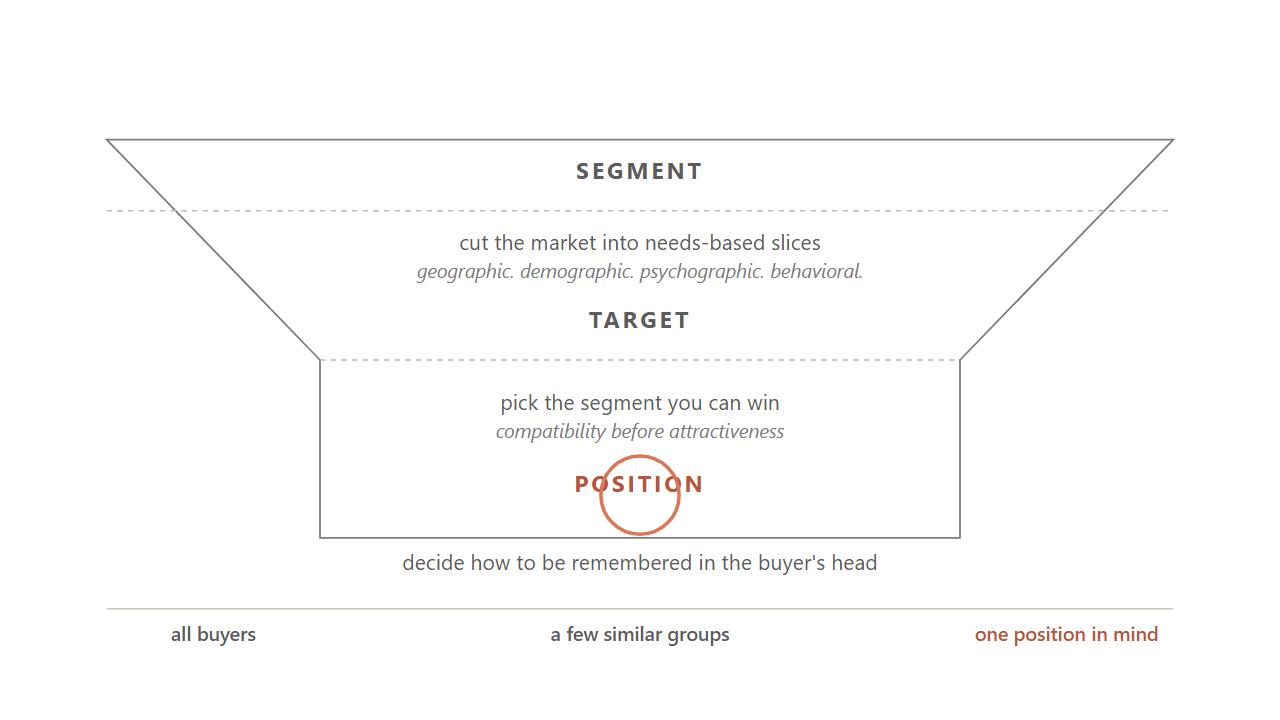
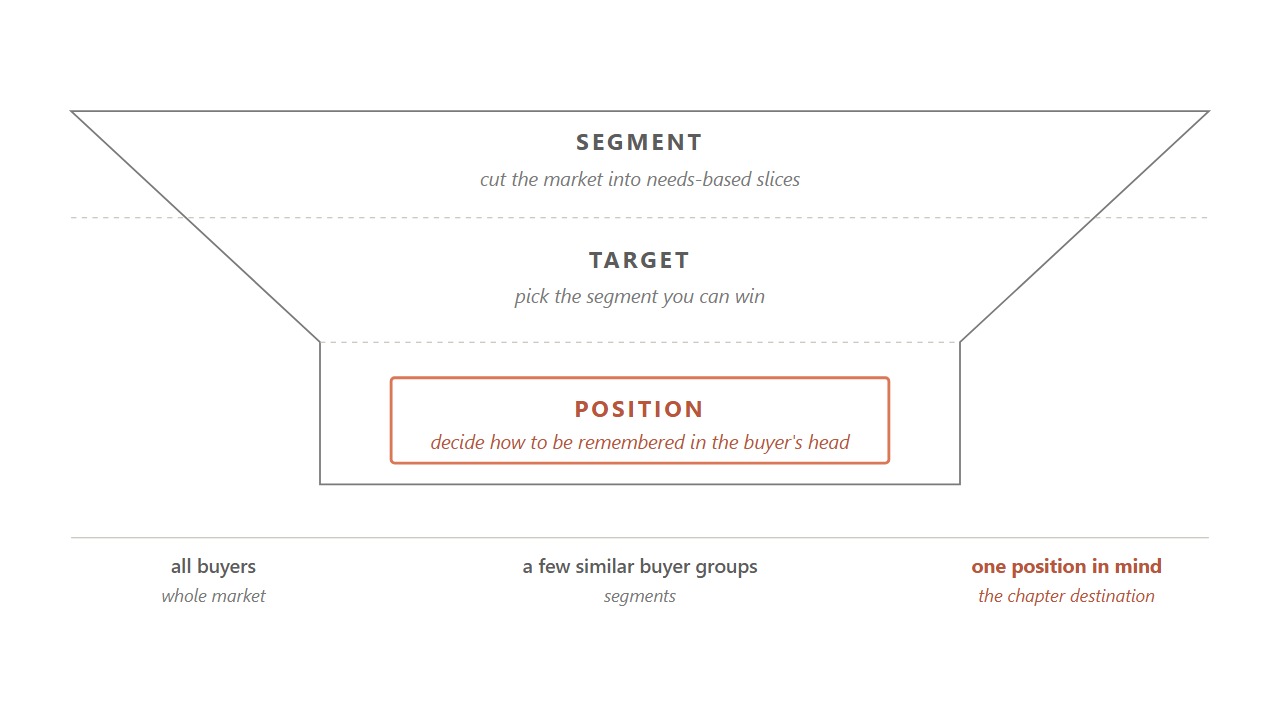
Trailers shipped: Ch10 + Ch6 type-minimal trailers (3-min hooks)
NEW visual world — type-minimal: Vox-cousin claim cards, type-on / stamp-on /
count-up / coral-underline / Fraunces 900 italic close-card. Built alongside
the Ch10 lecture editorial + RSA scenes; shares the same engine + audio
pipeline. Renders for BOTH chapters' trailers off one new typeMinimalKit.

Videos page now structured per chapter:
- Ch10: RSA lecture (67 MB) + Editorial lecture (43 MB) + 3-min trailer (12 MB)
- Ch6:  3-min trailer (13 MB) + "lecture rendering" placeholder
- Voice Variants section unchanged (9 narration samples).

Ch6 lecture renders (RSA + editorial cuts) are still in the BIBLE
render-still → LOOK → fix loop; mp4 follow-up commit when they land.

diff --git a/slides/ch06/v2/ch6-75min-lecture-handout.html b/slides/ch06/v2/ch6-75min-lecture-handout.html
@@ -123,30 +123,30 @@ h1 { font-size: 18pt; font-weight: 700; margin-bottom: 4pt; }
   <div class="thumb">
     <div class="thumb-card">
       <div class="thumb-num">04 / 51</div>
-      <div class="thumb-svg"><svg xmlns="http://www.w3.org/2000/svg" viewBox="0 0 720 340" preserveAspectRatio="xMidYMid meet" font-family="'Segoe UI', sans-serif" role="img" aria-label="The STP funnel. Segmentation cuts the whole market into similar buyer groups, targeting picks the group the firm will serve, and positioning decides how the brand wants to be remembered in that group's head. The chosen target group is drawn in coral.">
+      <div class="thumb-svg"><svg xmlns="http://www.w3.org/2000/svg" viewBox="0 0 720 360" preserveAspectRatio="xMidYMid meet" font-family="'Segoe UI', sans-serif" role="img" aria-label="The STP funnel. Segmentation cuts the whole market into similar buyer groups. Targeting picks the group the firm will serve. Positioning decides how the brand wants to be remembered in that group's head. The chosen position is drawn in coral.">
   <g font-size="12" fill="#1a1a1a">
-    <polygon points="60,46 660,46 540,170 540,270 180,270 180,170" fill="none" stroke="#7A7A7A" stroke-width="1"/>
+    <polygon points="40,40 680,40 540,170 540,250 180,250 180,170" fill="none" stroke="#7A7A7A" stroke-width="1"/>
 
-    <line x1="60" y1="86" x2="660" y2="86" stroke="#BDB7AC" stroke-width="0.8" stroke-dasharray="3,3"/>
-    <line x1="180" y1="170" x2="540" y2="170" stroke="#BDB7AC" stroke-width="0.8" stroke-dasharray="3,3"/>
+    <line x1="40"  y1="100" x2="680" y2="100" stroke="#BDB7AC" stroke-width="0.6" stroke-dasharray="3,3"/>
+    <line x1="180" y1="170" x2="540" y2="170" stroke="#BDB7AC" stroke-width="0.6" stroke-dasharray="3,3"/>
 
-    <text x="360" y="68" text-anchor="middle" font-size="13" font-weight="700" fill="#5C5C5C" letter-spacing="1.6">SEGMENT</text>
-    <text x="360" y="108" text-anchor="middle" font-size="12" fill="#5C5C5C">cut the market into needs-based slices</text>
-    <text x="360" y="124" text-anchor="middle" font-size="11" fill="#7A7A7A" font-style="italic">geographic. demographic. psychographic. behavioral.</text>
+    <text x="360" y="62"  text-anchor="middle" font-size="13" font-weight="700" fill="#5C5C5C" letter-spacing="1.6">SEGMENT</text>
+    <text x="360" y="82"  text-anchor="middle" font-size="11" fill="#7A7A7A" font-style="italic">cut the market into needs-based slices</text>
 
-    <text x="360" y="152" text-anchor="middle" font-size="13" font-weight="700" fill="#5C5C5C" letter-spacing="1.6">TARGET</text>
-    <text x="360" y="198" text-anchor="middle" font-size="12" fill="#5C5C5C">pick the segment you can win</text>
-    <text x="360" y="214" text-anchor="middle" font-size="11" fill="#7A7A7A" font-style="italic">compatibility before attractiveness</text>
+    <text x="360" y="128" text-anchor="middle" font-size="13" font-weight="700" fill="#5C5C5C" letter-spacing="1.6">TARGET</text>
+    <text x="360" y="148" text-anchor="middle" font-size="11" fill="#7A7A7A" font-style="italic">pick the segment you can win</text>
 
-    <text x="360" y="244" text-anchor="middle" font-size="13" font-weight="700" fill="#B8553A" letter-spacing="1.6">POSITION</text>
-    <text x="360" y="288" text-anchor="middle" font-size="12" fill="#5C5C5C">decide how to be remembered in the buyer's head</text>
+    <rect x="220" y="190" width="280" height="48" fill="none" stroke="#DA7756" stroke-width="1.6" rx="2"/>
+    <text x="360" y="212" text-anchor="middle" font-size="13" font-weight="700" fill="#B8553A" letter-spacing="1.6">POSITION</text>
+    <text x="360" y="230" text-anchor="middle" font-size="11" fill="#B8553A" font-style="italic">decide how to be remembered in the buyer's head</text>
 
-    <circle cx="360" cy="246" r="22" fill="none" stroke="#DA7756" stroke-width="2"/>
-
-    <line x1="60" y1="310" x2="660" y2="310" stroke="#BDB7AC" stroke-width="0.6"/>
-    <text x="120" y="328" text-anchor="middle" font-size="11" fill="#5C5C5C" font-weight="600">all buyers</text>
-    <text x="360" y="328" text-anchor="middle" font-size="11" fill="#5C5C5C" font-weight="600">a few similar groups</text>
-    <text x="600" y="328" text-anchor="middle" font-size="11" fill="#B8553A" font-weight="600">one position in mind</text>
+    <line x1="40" y1="280" x2="680" y2="280" stroke="#BDB7AC" stroke-width="0.6"/>
+    <text x="120" y="300" text-anchor="middle" font-size="11" fill="#5C5C5C" font-weight="600">all buyers</text>
+    <text x="120" y="316" text-anchor="middle" font-size="10" fill="#7A7A7A" font-style="italic">whole market</text>
+    <text x="360" y="300" text-anchor="middle" font-size="11" fill="#5C5C5C" font-weight="600">a few similar buyer groups</text>
+    <text x="360" y="316" text-anchor="middle" font-size="10" fill="#7A7A7A" font-style="italic">segments</text>
+    <text x="600" y="300" text-anchor="middle" font-size="11" fill="#B8553A" font-weight="700">one position in mind</text>
+    <text x="600" y="316" text-anchor="middle" font-size="10" fill="#B8553A" font-style="italic">the chapter destination</text>
   </g>
 </svg>
 </div>

diff --git a/slides/ch06/v2/ch6-75min-lecture.html b/slides/ch06/v2/ch6-75min-lecture.html
@@ -465,30 +465,30 @@ body {
     <div class="rule"></div>
   </header>
   <div class="body-area">
-    <figure class="exhibit"><svg xmlns="http://www.w3.org/2000/svg" viewBox="0 0 720 340" preserveAspectRatio="xMidYMid meet" font-family="'Segoe UI', sans-serif" role="img" aria-label="The STP funnel. Segmentation cuts the whole market into similar buyer groups, targeting picks the group the firm will serve, and positioning decides how the brand wants to be remembered in that group's head. The chosen target group is drawn in coral.">
+    <figure class="exhibit"><svg xmlns="http://www.w3.org/2000/svg" viewBox="0 0 720 360" preserveAspectRatio="xMidYMid meet" font-family="'Segoe UI', sans-serif" role="img" aria-label="The STP funnel. Segmentation cuts the whole market into similar buyer groups. Targeting picks the group the firm will serve. Positioning decides how the brand wants to be remembered in that group's head. The chosen position is drawn in coral.">
   <g font-size="12" fill="#1a1a1a">
-    <polygon points="60,46 660,46 540,170 540,270 180,270 180,170" fill="none" stroke="#7A7A7A" stroke-width="1"/>
+    <polygon points="40,40 680,40 540,170 540,250 180,250 180,170" fill="none" stroke="#7A7A7A" stroke-width="1"/>
 
-    <line x1="60" y1="86" x2="660" y2="86" stroke="#BDB7AC" stroke-width="0.8" stroke-dasharray="3,3"/>
-    <line x1="180" y1="170" x2="540" y2="170" stroke="#BDB7AC" stroke-width="0.8" stroke-dasharray="3,3"/>
+    <line x1="40"  y1="100" x2="680" y2="100" stroke="#BDB7AC" stroke-width="0.6" stroke-dasharray="3,3"/>
+    <line x1="180" y1="170" x2="540" y2="170" stroke="#BDB7AC" stroke-width="0.6" stroke-dasharray="3,3"/>
 
-    <text x="360" y="68" text-anchor="middle" font-size="13" font-weight="700" fill="#5C5C5C" letter-spacing="1.6">SEGMENT</text>
-    <text x="360" y="108" text-anchor="middle" font-size="12" fill="#5C5C5C">cut the market into needs-based slices</text>
-    <text x="360" y="124" text-anchor="middle" font-size="11" fill="#7A7A7A" font-style="italic">geographic. demographic. psychographic. behavioral.</text>
+    <text x="360" y="62"  text-anchor="middle" font-size="13" font-weight="700" fill="#5C5C5C" letter-spacing="1.6">SEGMENT</text>
+    <text x="360" y="82"  text-anchor="middle" font-size="11" fill="#7A7A7A" font-style="italic">cut the market into needs-based slices</text>
 
-    <text x="360" y="152" text-anchor="middle" font-size="13" font-weight="700" fill="#5C5C5C" letter-spacing="1.6">TARGET</text>
-    <text x="360" y="198" text-anchor="middle" font-size="12" fill="#5C5C5C">pick the segment you can win</text>
-    <text x="360" y="214" text-anchor="middle" font-size="11" fill="#7A7A7A" font-style="italic">compatibility before attractiveness</text>
+    <text x="360" y="128" text-anchor="middle" font-size="13" font-weight="700" fill="#5C5C5C" letter-spacing="1.6">TARGET</text>
+    <text x="360" y="148" text-anchor="middle" font-size="11" fill="#7A7A7A" font-style="italic">pick the segment you can win</text>
 
-    <text x="360" y="244" text-anchor="middle" font-size="13" font-weight="700" fill="#B8553A" letter-spacing="1.6">POSITION</text>
-    <text x="360" y="288" text-anchor="middle" font-size="12" fill="#5C5C5C">decide how to be remembered in the buyer's head</text>
+    <rect x="220" y="190" width="280" height="48" fill="none" stroke="#DA7756" stroke-width="1.6" rx="2"/>
+    <text x="360" y="212" text-anchor="middle" font-size="13" font-weight="700" fill="#B8553A" letter-spacing="1.6">POSITION</text>
+    <text x="360" y="230" text-anchor="middle" font-size="11" fill="#B8553A" font-style="italic">decide how to be remembered in the buyer's head</text>
 
-    <circle cx="360" cy="246" r="22" fill="none" stroke="#DA7756" stroke-width="2"/>
-
-    <line x1="60" y1="310" x2="660" y2="310" stroke="#BDB7AC" stroke-width="0.6"/>
-    <text x="120" y="328" text-anchor="middle" font-size="11" fill="#5C5C5C" font-weight="600">all buyers</text>
-    <text x="360" y="328" text-anchor="middle" font-size="11" fill="#5C5C5C" font-weight="600">a few similar groups</text>
-    <text x="600" y="328" text-anchor="middle" font-size="11" fill="#B8553A" font-weight="600">one position in mind</text>
+    <line x1="40" y1="280" x2="680" y2="280" stroke="#BDB7AC" stroke-width="0.6"/>
+    <text x="120" y="300" text-anchor="middle" font-size="11" fill="#5C5C5C" font-weight="600">all buyers</text>
+    <text x="120" y="316" text-anchor="middle" font-size="10" fill="#7A7A7A" font-style="italic">whole market</text>
+    <text x="360" y="300" text-anchor="middle" font-size="11" fill="#5C5C5C" font-weight="600">a few similar buyer groups</text>
+    <text x="360" y="316" text-anchor="middle" font-size="10" fill="#7A7A7A" font-style="italic">segments</text>
+    <text x="600" y="300" text-anchor="middle" font-size="11" fill="#B8553A" font-weight="700">one position in mind</text>
+    <text x="600" y="316" text-anchor="middle" font-size="10" fill="#B8553A" font-style="italic">the chapter destination</text>
   </g>
 </svg>
 </figure>

diff --git a/videos/index.html b/videos/index.html
@@ -331,7 +331,7 @@ main:has(.docs-layout){max-width:none;padding:0;}
 <main id="main">
 <div class="docs-layout"><aside class="docs-rail" aria-label="Section navigation"><div class="rail-group"><h3>Lecture videos</h3><ul class="rail-list"><li><span class="rail-soon"><span class="rail-num">Ch 01</span><span class="rail-label">AI for Marketers</span></span></li><li><span class="rail-soon"><span class="rail-num">Ch 02</span><span class="rail-label">What Marketing Is</span></span></li><li><span class="rail-soon"><span class="rail-num">Ch 03</span><span class="rail-label">The Marketing Environm…</span></span></li><li><span class="rail-soon"><span class="rail-num">Ch 04</span><span class="rail-label">How Buyers Buy</span></span></li><li><span class="rail-soon"><span class="rail-num">Ch 05</span><span class="rail-label">Marketing Research</span></span></li><li><span class="rail-soon"><span class="rail-num">Ch 06</span><span class="rail-label">Segmentation, Targetin…</span></span></li><li><span class="rail-soon"><span class="rail-num">Ch 07</span><span class="rail-label">Brands &amp; Brand Equity</span></span></li><li><span class="rail-soon"><span class="rail-num">Ch 08</span><span class="rail-label">Product Management</span></span></li><li><span class="rail-soon"><span class="rail-num">Ch 09</span><span class="rail-label">Services Marketing</span></span></li><li><a class="is-active" href="index.html"><span class="rail-num">Ch 10</span><span class="rail-label">Pricing</span></a></li><li><span class="rail-soon"><span class="rail-num">Ch 11</span><span class="rail-label">Distribution Channels</span></span></li><li><span class="rail-soon"><span class="rail-num">Ch 12</span><span class="rail-label">Retail</span></span></li><li><span class="rail-soon"><span class="rail-num">Ch 13</span><span class="rail-label">DTC &amp; E-commerce</span></span></li><li><span class="rail-soon"><span class="rail-num">Ch 14</span><span class="rail-label">Mobile &amp; App Marketing</span></span></li><li><span class="rail-soon"><span class="rail-num">Ch 15</span><span class="rail-label">International Marketing</span></span></li><li><span class="rail-soon"><span class="rail-num">Ch 16</span><span class="rail-label">Promotions</span></span></li><li><span class="rail-soon"><span class="rail-num">Ch 17</span><span class="rail-label">Content Marketing</span></span></li><li><span class="rail-soon"><span class="rail-num">Ch 18</span><span class="rail-label">Digital Marketing</span></span></li><li><span class="rail-soon"><span class="rail-num">Ch 19</span><span class="rail-label">Social Media</span></span></li><li><span class="rail-soon"><span class="rail-num">Ch 20</span><span class="rail-label">Creator Economy</span></span></li><li><span class="rail-soon"><span class="rail-num">Ch 21</span><span class="rail-label">Customer Lifecycle</span></span></li><li><span class="rail-soon"><span class="rail-num">Ch 22</span><span class="rail-label">PR &amp; Crisis</span></span></li><li><span class="rail-soon"><span class="rail-num">Ch 23</span><span class="rail-label">Sales Alignment</span></span></li><li><span class="rail-soon"><span class="rail-num">Ch 24</span><span class="rail-label">Marketing Plan &amp; Analy…</span></span></li><li><span class="rail-soon"><span class="rail-num">Ch 25</span><span class="rail-label">Marketing Finance</span></span></li><li><span class="rail-soon"><span class="rail-num">Ch 26</span><span class="rail-label">Ethics &amp; Responsible AI</span></span></li><li><span class="rail-soon"><span class="rail-num">Ch 27</span><span class="rail-label">Capstone</span></span></li></ul></div></aside><section class="docs-main"><details class="docs-rail-mobile"><summary>Browse this section</summary><div class="rail-group"><h3>Lecture videos</h3><ul class="rail-list"><li><span class="rail-soon"><span class="rail-num">Ch 01</span><span class="rail-label">AI for Marketers</span></span></li><li><span class="rail-soon"><span class="rail-num">Ch 02</span><span class="rail-label">What Marketing Is</span></span></li><li><span class="rail-soon"><span class="rail-num">Ch 03</span><span class="rail-label">The Marketing Environm…</span></span></li><li><span class="rail-soon"><span class="rail-num">Ch 04</span><span class="rail-label">How Buyers Buy</span></span></li><li><span class="rail-soon"><span class="rail-num">Ch 05</span><span class="rail-label">Marketing Research</span></span></li><li><span class="rail-soon"><span class="rail-num">Ch 06</span><span class="rail-label">Segmentation, Targetin…</span></span></li><li><span class="rail-soon"><span class="rail-num">Ch 07</span><span class="rail-label">Brands &amp; Brand Equity</span></span></li><li><span class="rail-soon"><span class="rail-num">Ch 08</span><span class="rail-label">Product Management</span></span></li><li><span class="rail-soon"><span class="rail-num">Ch 09</span><span class="rail-label">Services Marketing</span></span></li><li><a class="is-active" href="index.html"><span class="rail-num">Ch 10</span><span class="rail-label">Pricing</span></a></li><li><span class="rail-soon"><span class="rail-num">Ch 11</span><span class="rail-label">Distribution Channels</span></span></li><li><span class="rail-soon"><span class="rail-num">Ch 12</span><span class="rail-label">Retail</span></span></li><li><span class="rail-soon"><span class="rail-num">Ch 13</span><span class="rail-label">DTC &amp; E-commerce</span></span></li><li><span class="rail-soon"><span class="rail-num">Ch 14</span><span class="rail-label">Mobile &amp; App Marketing</span></span></li><li><span class="rail-soon"><span class="rail-num">Ch 15</span><span class="rail-label">International Marketing</span></span></li><li><span class="rail-soon"><span class="rail-num">Ch 16</span><span class="rail-label">Promotions</span></span></li><li><span class="rail-soon"><span class="rail-num">Ch 17</span><span class="rail-label">Content Marketing</span></span></li><li><span class="rail-soon"><span class="rail-num">Ch 18</span><span class="rail-label">Digital Marketing</span></span></li><li><span class="rail-soon"><span class="rail-num">Ch 19</span><span class="rail-label">Social Media</span></span></li><li><span class="rail-soon"><span class="rail-num">Ch 20</span><span class="rail-label">Creator Economy</span></span></li><li><span class="rail-soon"><span class="rail-num">Ch 21</span><span class="rail-label">Customer Lifecycle</span></span></li><li><span class="rail-soon"><span class="rail-num">Ch 22</span><span class="rail-label">PR &amp; Crisis</span></span></li><li><span class="rail-soon"><span class="rail-num">Ch 23</span><span class="rail-label">Sales Alignment</span></span></li><li><span class="rail-soon"><span class="rail-num">Ch 24</span><span class="rail-label">Marketing Plan &amp; Analy…</span></span></li><li><span class="rail-soon"><span class="rail-num">Ch 25</span><span class="rail-label">Marketing Finance</span></span></li><li><span class="rail-soon"><span class="rail-num">Ch 26</span><span class="rail-label">Ethics &amp; Responsible AI</span></span></li><li><span class="rail-soon"><span class="rail-num">Ch 27</span><span class="rail-label">Capstone</span></span></li></ul></div></details><nav class="breadcrumb" aria-label="Breadcrumb"><a href="../index.html">Courseware</a><span class="sep">›</span><a href="../index.html">Teach</a><span class="sep">›</span><span class="current">Lecture videos</span></nav><p class="page-overview">Short, animated chapter lectures on the book's coral visual system. The Pricing lecture is rendered; the remaining 26 are in production.</p><div class="doc-body"><h1>Lecture videos</h1>
 <h2>Chapter 10 &middot; Pricing</h2>
-<p class="group-blurb">Two finished cuts of the same lecture, on the same audio spine — pick the look that fits your teaching style. Both are 12:46.</p>
+<p class="group-blurb">Two finished cuts of the same 10-minute lecture, on the same audio spine — pick the look that fits your teaching style. Both are 12:46. Plus a 3-minute trailer in a different visual style for hook/preview.</p>
 <h3>RSA / hand-drawn cut</h3>
 <figure style="margin:8px 0 28px;">
   <video controls preload="metadata" playsinline
@@ -356,6 +356,11 @@ main:has(.docs-layout){max-width:none;padding:0;}
     Inter labels + clean SVG diagrams. The shippable "broadcast" version. (43&nbsp;MB MP4.)
   </figcaption>
 </figure>
+<h3>Ch 10 trailer &middot; 3-minute trailer</h3><figure style="margin:8px 0 28px;"><video controls preload="metadata" playsinline style="width:100%;border-radius:12px;border:1px solid var(--border);background:#000;display:block;"><source src="ch10-pricing-trailer.mp4" type="video/mp4">Your browser can’t play embedded video. <a href="ch10-pricing-trailer.mp4">Download the MP4</a>.</video><figcaption style="font-size:13.5px;color:var(--ink-3);margin-top:10px;">Type-minimal style — Vox-cousin claim cards. The EpiPen $100→$608 hook, the one-percent leverage principle, the value-stick tease, the fairness ceiling. (12&nbsp;MB MP4.)</figcaption></figure>
+<h2>Chapter 6 &middot; Segmentation, Targeting, Positioning</h2>
+<p class="group-blurb">3-minute trailer rendered. The 10-minute lecture is being rendered in both RSA and editorial cuts (same audio, same timing — pick the look).</p>
+<h3>Ch 6 trailer &middot; 3-minute trailer</h3><figure style="margin:8px 0 28px;"><video controls preload="metadata" playsinline style="width:100%;border-radius:12px;border:1px solid var(--border);background:#000;display:block;"><source src="ch06-stp-trailer.mp4" type="video/mp4">Your browser can’t play embedded video. <a href="ch06-stp-trailer.mp4">Download the MP4</a>.</video><figcaption style="font-size:13.5px;color:var(--ink-3);margin-top:10px;">Type-minimal style. Opens on Knorr India +127% (same packet, reframed occasion). Teases the STP funnel, the perceptual map, double-jeopardy. (12&nbsp;MB MP4.)</figcaption></figure>
+<p class="group-blurb">Ch 6 lecture (both RSA + editorial cuts) is rendering — check back in a few minutes; the trailer above shows the type-minimal style.</p>
 <h2 id="voice-variants">Voice variants &middot; evaluation</h2>
 <p class="group-blurb">Same script, different ElevenLabs voices. Use this to pick the audio identity you want locked across the course.</p>
 <h3>Chapter 10 — Trailer (3 min)</h3>